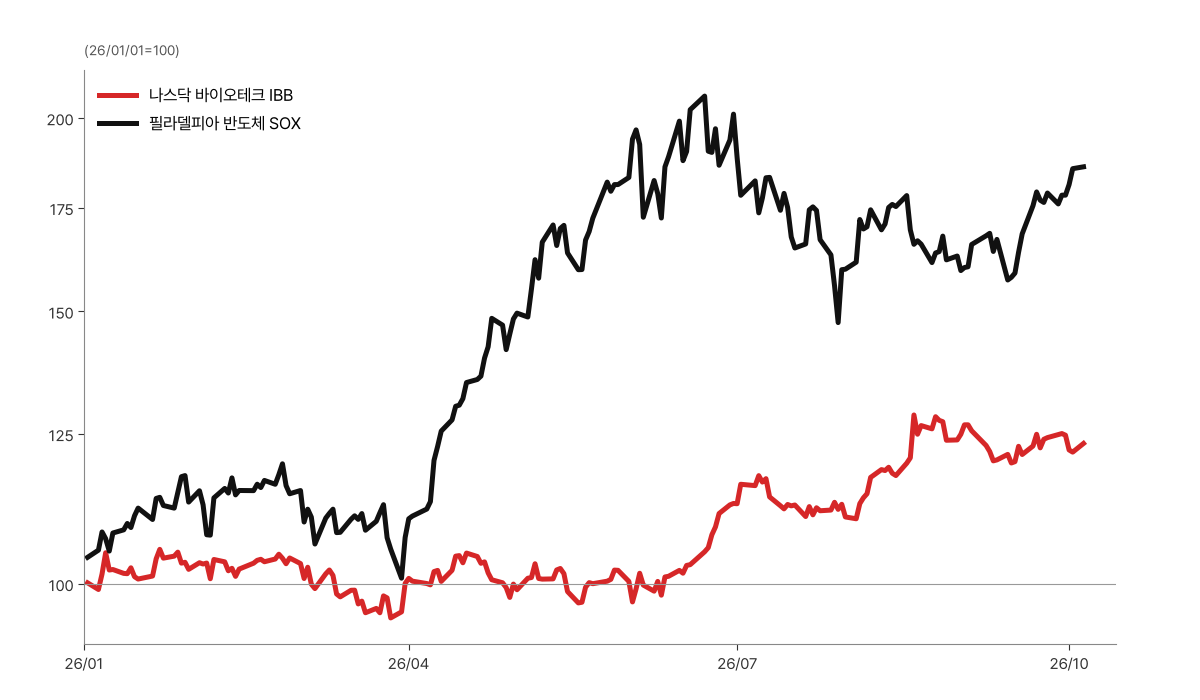
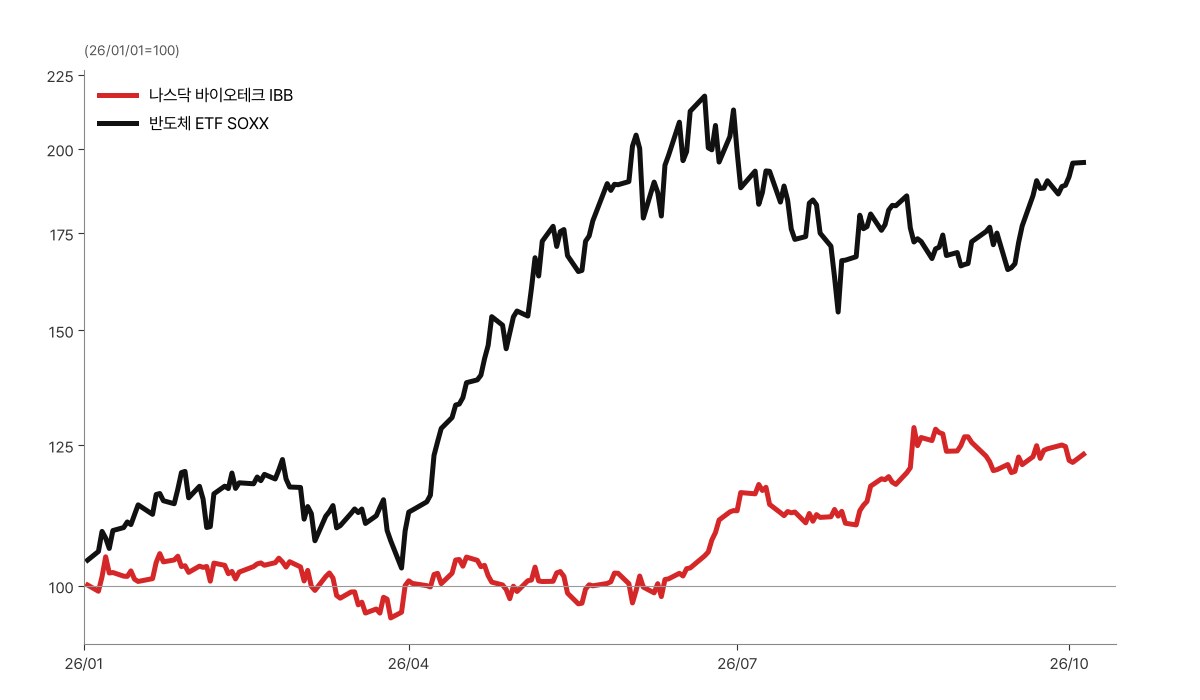
briefing 2026-10-06: 차트 6을 SOXX로 다시 그린 이미지·캡션으로 교체
Claude-Session: https://claude.ai/code/session_01X6pM8r8qA1xWmkgPzMbJyR

diff --git a/docs/2026-10-06.html b/docs/2026-10-06.html
@@ -155,7 +155,7 @@ NVDA $238.90 (+2.1%)</figcaption>
     <figure>
       <img src="charts/2026-10-06-chart-6.png" alt="바이오테크·반도체 연초 대비" loading="lazy">
       <figcaption>IBB 123.2 (+1.3%)
-SOX 186.0 (+0.3%)</figcaption>
+SOXX 195.8 (+0.1%)</figcaption>
     </figure>
   </section>
 

diff --git a/docs/index.html b/docs/index.html
@@ -155,7 +155,7 @@ NVDA $238.90 (+2.1%)</figcaption>
     <figure>
       <img src="charts/2026-10-06-chart-6.png" alt="바이오테크·반도체 연초 대비" loading="lazy">
       <figcaption>IBB 123.2 (+1.3%)
-SOX 186.0 (+0.3%)</figcaption>
+SOXX 195.8 (+0.1%)</figcaption>
     </figure>
   </section>
 
